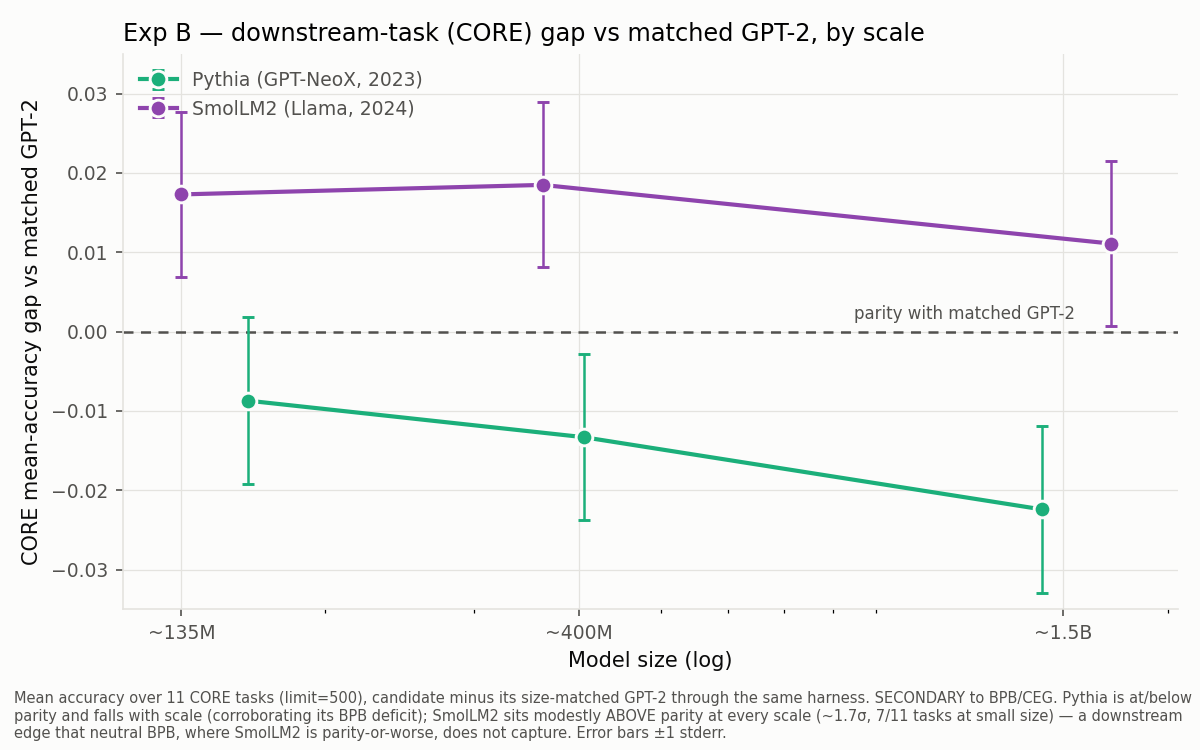
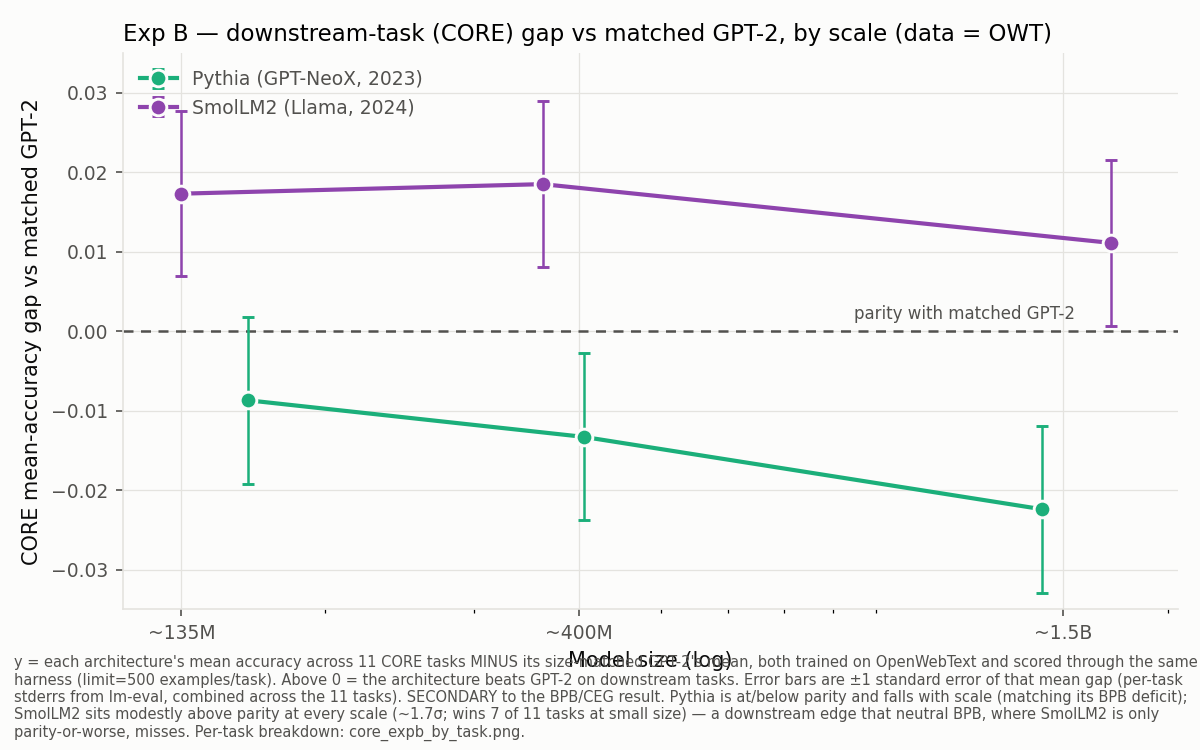
README: rewrite for researchers (no glossary; per-experiment 'what we ran' tables; explain worse-data/same-size-baseline/censored inline; methodology as prose; clearer Exp B results). Add per-task CORE figure + clarified captions (OWT, stderr, mean-over-tasks)

diff --git a/analysis/plots.py b/analysis/plots.py
@@ -324,17 +324,71 @@ def core_expb_delta_vs_scale(root: Path, out_path):
     ax.set_ylim(-0.035, 0.035)
     ax.set_xlabel("Model size (log)")
     ax.set_ylabel("CORE mean-accuracy gap vs matched GPT-2")
-    ax.set_title("Exp B — downstream-task (CORE) gap vs matched GPT-2, by scale",
-                 fontsize=11.5, loc="left")
+    ax.set_title("Exp B — downstream-task (CORE) gap vs matched GPT-2, by scale (data = OWT)",
+                 fontsize=11, loc="left")
     ax.legend(frameon=False, fontsize=9, labelcolor=INK2, loc="upper left")
     fig.text(0.012, 0.012,
-             "Mean accuracy over 11 CORE tasks (limit=500), candidate minus its size-matched "
-             "GPT-2 through the same harness. SECONDARY to BPB/CEG. Pythia is at/below parity "
-             "and falls with scale (corroborating its BPB deficit); SmolLM2 sits modestly ABOVE "
-             "parity at every scale (~1.7σ, 7/11 tasks at small size) — a downstream edge that "
-             "neutral BPB, where SmolLM2 is parity-or-worse, does not capture. Error bars ±1 stderr.",
+             "y = each architecture's mean accuracy across 11 CORE tasks MINUS its size-matched "
+             "GPT-2's mean, both trained on OpenWebText and scored through the same harness "
+             "(limit=500 examples/task). Above 0 = the architecture beats GPT-2 on downstream "
+             "tasks. Error bars are ±1 standard error of that mean gap (per-task stderrs from "
+             "lm-eval, combined across the 11 tasks). SECONDARY to the BPB/CEG result. Pythia is "
+             "at/below parity and falls with scale (matching its BPB deficit); SmolLM2 sits "
+             "modestly above parity at every scale (~1.7σ; wins 7 of 11 tasks at small size) — a "
+             "downstream edge that neutral BPB, where SmolLM2 is only parity-or-worse, misses. "
+             "Per-task breakdown: core_expb_by_task.png.",
              fontsize=7.0, color=INK2, va="bottom", wrap=True)
     fig.tight_layout(rect=(0, 0.075, 1, 1))
+    fig.savefig(out_path, facecolor=SURFACE); plt.close(fig)
+
+
+def core_expb_by_task(root: Path, out_path):
+    """Exp B CORE broken down BY TASK: one panel per task, showing each lineage's
+    accuracy gap vs its matched GPT-2 (candidate - GPT-2) across model size. Companion
+    to the aggregate core_expb_delta figure. Data = OWT (Exp B is OWT-only); limit=500;
+    ±1 stderr per point (stderr of the difference = hypot of the two arms' task stderrs).
+    Reads results/core_expb_summary.json (per_task deltas)."""
+    S = json.loads((root / "core_expb_summary.json").read_text())["pairs"]
+    PARAMS = {"pythia-160M": 162, "pythia-410M": 405, "pythia-1.4B": 1415,
+              "smollm2-135M": 135, "smollm2-360M": 362, "smollm2-1.7B": 1711}
+    LIN = {"pythia": ("Pythia", "#1baf7a"), "smollm2": ("SmolLM2", "#8e44ad")}
+    tasks = ["arc_easy", "arc_challenge", "openbookqa", "hellaswag", "commonsense_qa",
+             "boolq", "copa", "piqa", "winogrande", "xwinograd_en", "lambada_openai"]
+    ncol = 4
+    nrow = (len(tasks) + ncol - 1) // ncol
+    fig, axes = plt.subplots(nrow, ncol, figsize=(12.5, 2.5 * nrow), dpi=150, sharey=True)
+    axf = axes.ravel()
+    for i, task in enumerate(tasks):
+        ax = axf[i]
+        ax.axhline(0.0, color=INK2, lw=1, ls=(0, (4, 3)), zorder=1)
+        for lname, (label, col) in LIN.items():
+            pts = sorted(((PARAMS[k], v["per_task"].get(task, {})) for k, v in S.items()
+                          if k.startswith(lname)))
+            xs = [p for p, d in pts if d]
+            ys = [d["delta"] for p, d in pts if d]
+            ax.plot(xs, ys, color=col, marker="o", ms=5, lw=1.6, label=label, zorder=3,
+                    markeredgecolor=SURFACE, markeredgewidth=0.8)
+        ax.set_xscale("log"); ax.set_xticks([135, 400, 1500])
+        ax.set_xticklabels(["135M", "400M", "1.5B"], fontsize=7.5)
+        ax.xaxis.set_minor_formatter(matplotlib.ticker.NullFormatter())
+        ax.set_ylim(-0.10, 0.10)
+        ax.set_title(task, fontsize=9.5, loc="left")
+        _style(ax)
+    for j in range(len(tasks), len(axf)):
+        axf[j].axis("off")
+    axf[0].legend(frameon=False, fontsize=8, labelcolor=INK2, loc="upper right")
+    for r in range(nrow):
+        axes[r, 0].set_ylabel("Δ acc vs GPT-2", fontsize=8.5)
+    fig.suptitle("Exp B — CORE accuracy gap vs matched GPT-2, per task (data = OWT)",
+                 fontsize=12.5, x=0.012, ha="left", color=INK)
+    fig.text(0.012, 0.008,
+             "Each panel: candidate accuracy minus its size-matched GPT-2 on that task "
+             "(>0 = candidate better), vs model size, per lineage. limit=500, so single "
+             "tasks are noisy — read the consistency across tasks, not any one panel. "
+             "SmolLM2 (purple) is positive on most tasks at most sizes; Pythia (green) "
+             "scatters around/below zero. Aggregate + significance in core_expb_delta.png.",
+             fontsize=7.2, color=INK2, va="bottom", wrap=True)
+    fig.tight_layout(rect=(0, 0.04, 1, 0.95))
     fig.savefig(out_path, facecolor=SURFACE); plt.close(fig)
 
 
@@ -569,7 +623,7 @@ if __name__ == "__main__":
     ap.add_argument("kind", choices=["curves", "cross_scale", "sensitivity",
                                      "all_configs", "multipliers",
                                      "core_vs_scale", "core_arms_by_task",
-                                     "core_expb"])
+                                     "core_expb", "core_expb_by_task"])
     ap.add_argument("--size-label", default="")
     ap.add_argument("--out", required=True)
     ap.add_argument("--threshold", type=float)
@@ -593,6 +647,8 @@ if __name__ == "__main__":
         core_arms_by_task(Path("results"), a.out)
     elif a.kind == "core_expb":
         core_expb_delta_vs_scale(Path("results"), a.out)
+    elif a.kind == "core_expb_by_task":
+        core_expb_by_task(Path("results"), a.out)
     else:
         threshold_sensitivity(a.csv, a.size_label, a.out)
     print(f"wrote {a.out}")

diff --git a/analysis/make_report.py b/analysis/make_report.py
@@ -250,6 +250,10 @@ def _expb_core_section(root):
             "is noisy — not a compute-efficiency claim (on BPB/CEG neither lineage beats GPT-2).", ""]
     if (root / "core_expb_delta.png").exists():
         out += ["![Exp B CORE gap vs matched GPT-2, by scale](core_expb_delta.png)", ""]
+    if (root / "core_expb_by_task.png").exists():
+        out += ["Per-task breakdown (each task is noisy at limit=500 — read the "
+                "consistency across tasks, not any single panel):", "",
+                "![Exp B CORE gap per task](core_expb_by_task.png)", ""]
     return out
 
 

diff --git a/README.md b/README.md
@@ -6,55 +6,79 @@ at once: the **data** got better (cleaner, better-filtered web corpora) and the
 recipes). This project asks how much of the progress each one is responsible for.
 
 The trick is to put both on a common currency: **compute**. Instead of asking "how
-much better is the loss," we ask "**how much less compute do you need to reach the
-same quality?**" Concretely, we fix a quality bar — a target score on a held-out,
+much better is the loss," we ask "how much *less compute* do you need to reach the same
+quality?" Concretely, we fix a quality bar — a target score on a held-out,
 decontaminated Wikipedia set — train each configuration from scratch, and record the
 GPU-hours it takes to reach that bar. Better data or a better algorithm shows up as
-*needing fewer GPU-hours*. We call that ratio a **compute-equivalent gain (CEG)**: a
-2× CEG means you reach the same quality in half the compute. Because the quality bar
-is measured in **bits-per-byte** (BPB) on identical raw text, the numbers are
-comparable across different tokenizers, architectures, and model sizes.
+needing fewer GPU-hours. We call that ratio a **compute-equivalent gain (CEG)**: a 2×
+CEG means you reach the same quality in half the compute. The quality bar is measured
+in bits-per-byte on the same raw text for every run, so the comparison is fair across
+different tokenizers, architectures, and model sizes.
 
-A few terms used throughout:
-- **arm** — one training configuration (a specific data + algorithm combination).
-- **threshold** — the fixed quality bar (a BPB value); an arm's CEG is how quickly it
-  reaches that bar relative to a baseline.
-- **censored** — an arm that never reaches the threshold, so its CEG is only bounded
-  (≤1× if it can't even match the baseline). We report these honestly rather than
-  extrapolating a crossing that didn't happen.
+Two things to know about how to read the numbers. First, every comparison is against a
+**GPT-2 baseline of the same parameter count** — when we say an architecture is
+compared to "a matched GPT-2," we mean a GPT-2 with the same dimensions/parameters,
+trained through the same pipeline, so the only thing that differs is the thing being
+tested. Second, some configurations **never reach the quality bar** within the training
+budget; we call those *censored* and report them as a bound (e.g. "≤1×, no measurable
+gain") rather than inventing a crossing that didn't happen.
 
 ## The three experiments
 
-**1. Core 2×2 study — the foundation.** Cross the two axes directly: old vs. new
-**data**, old vs. new **algorithm**, giving four arms. Training all four and comparing
-their compute-to-threshold lets us split the total progress into a *data multiplier*
-and an *algorithm multiplier* at each model size (a Shapley decomposition — it just
-averages the two possible orderings of "add better data first" vs. "add the better
-algorithm first"). We run this at GPT-2 sizes along two separate cross-scale curves,
-because the "new algorithm" isn't a single fixed thing across scales: a current
-modded-nanoGPT speedrun (124M, 355M) and the 2024 "ScaleUp" lineage (124M, 1.5B).
+### 1. Core 2×2 study — the foundation
 
-|  | Old data (OpenWebText) | New data (DCLM/Nemotron-CC) |
+Cross the two axes directly: old vs. new **data**, old vs. new **algorithm**, giving
+four training runs ("arms"). Comparing their compute-to-quality lets us split the total
+progress into a *data multiplier* and an *algorithm multiplier* at each model size (a
+Shapley decomposition — it averages the two orderings of "add the better data first"
+vs. "add the better algorithm first"). We run this at several GPT-2 sizes, along two
+separate curves, because the "new algorithm" isn't one fixed thing across scales: a
+current modded-nanoGPT speedrun (small sizes) and the older 2024 "ScaleUp" recipe
+(which has a documented large-scale configuration).
+
+The four arms, and the sizes each curve was run at:
+
+|  | Old data (OpenWebText) | New data (DCLM) | Sizes run |
+|---|---|---|---|
+| **Old algorithm** (GPT-2) | A0D0 | A0D1 | 124M, 355M, 1.5B |
+| **New algorithm — current speedrun** | A1D0 | A1D1 | 124M, 355M |
+| **New algorithm — 2024 ScaleUp** | A1D0 | A1D1 | 124M, 1.5B |
+
+### 2. Exp A — does "newer data" mean "better data"?
+
+Hold the algorithm fixed and walk the data corpus forward in time, all at 124M. Here
+"worse data" has a concrete meaning: a model of the same size, trained on that corpus
+for the same compute, reaches the quality bar more slowly — or not at all. The finding
+is that data quality is *not* monotonic in release year.
+
+| Data corpus | Release year | Runs (each = one 124M model) |
 |---|---|---|
-| **Old algorithm** (GPT-2 repro) | A0D0 | A0D1 |
-| **New algorithm** (modded-nanoGPT) | A1D0 | A1D1 |
+| OpenWebText | 2019 | old-algo (the baseline) + current-arch |
+| C4 | 2020 | old-algo + current-arch |
+| RefinedWeb | 2023 | old-algo + current-arch |
+| DCLM | 2024 | old-algo + current-arch |
 
-**2. Exp A — does "newer data" mean "better data"?** Hold the algorithm fixed and
-walk the data corpus forward in time: OpenWebText (2019), C4 (2020), RefinedWeb
-(2023), DCLM (2024), all at 124M. The answer turns out to be no — data quality is
-*not* monotonic in release year (C4 in 2020 is actually worse than 2019 OpenWebText).
+### 3. Exp B — does the modern architecture advantage generalize?
 
-**3. Exp B — does the modern architecture advantage generalize?** The core study found
-a large algorithm advantage for the current speedrun at small scale. Is that a real
-architectural improvement, or just tricks tuned for small-scale speedrun benchmarks?
-To find out, we train published open-model lineages — Pythia (2023) and SmolLM2 (2024)
-— from scratch against a size-matched GPT-2, on fixed data, from 135M to 1.7B. The
-result is a clean "no": none of them beat a well-tuned GPT-2 at any scale. (This
-experiment currently varies only architecture; extending it across the data corpora —
-to get a data multiplier per architecture — is the planned next step.)
+The core study found a large algorithm advantage for the current speedrun at small
+scale. Is that a genuine architectural improvement, or tricks tuned for small-scale
+speedrun benchmarks? To find out, we take two *published* open-model lineages — Pythia
+(2023) and SmolLM2 (2024) — and train them from scratch against a same-size GPT-2, on
+fixed data (OpenWebText), across a range of sizes. The result is a clean "no": neither
+beats a well-tuned GPT-2 at any scale.
 
-Headline numbers for all three are in "Results so far" below; the full write-up,
-with figures and every caveat, is in `report.md`.
+| Architecture | Sizes run | Baseline (same-size GPT-2) |
+|---|---|---|
+| GPT-2 (matched baseline) | 135M, 160M, 360M, 410M, 1.4B, 1.7B | — (it is the baseline) |
+| Pythia (GPT-NeoX, 2023) | 160M, 410M, 1.4B | 160M / 410M / 1.4B GPT-2 |
+| SmolLM2 (Llama, 2024) | 135M, 360M, 1.7B | 135M / 360M / 1.7B GPT-2 |
+
+This experiment varies only the architecture (data is held fixed at OpenWebText), so it
+produces an *algorithm* comparison but not yet a data multiplier for these new
+architectures — extending it across the four corpora is the planned next step.
+
+Headline numbers for all three are in "Results so far" below; the full write-up, with
+figures and every caveat, is in `report.md`.
 
 ## Status: what's measured, and what's still open
 
@@ -122,17 +146,30 @@ data multiplier ~stable (~3×). Disclosed gaps: current-arch 1.5B, ScaleUp 355M.
 Data-quality is NON-monotonic in release year — C4 (2020) is *worse* than 2019 OWT
 (censored under both algorithms). Corrected OWT×DCLM 2×2: data 2.39×, algo 16.1×, total 38.5×.
 
-**Exp B — architecture landscape** (algorithm-CEG vs a size-matched GPT-2, data fixed = OWT;
-Δ = arch neutral BPB − matched GPT-2, >0 = worse; all arms censored ≤1×):
+**Exp B — architecture landscape.** Every architecture is compared to a same-size
+GPT-2. None of them reach the GPT-2 quality bar faster (all are censored, i.e. algorithm
+CEG ≤ 1×), so the informative number is how far *short* of the bar each one lands. The
+table shows the gap in bits-per-byte between the architecture and its matched GPT-2 at
+convergence — 0 means a tie, positive means the architecture is worse:
 
-| Lineage | 135–160M | 360–410M | 1.4–1.7B |
+| Architecture | ~135–160M | ~360–410M | ~1.4–1.7B |
 |---|---|---|---|
-| Pythia (GPT-NeoX, 2023) | +0.082 | +0.020 (2-seed) | +0.030 |
-| SmolLM2 (Llama, 2024) | +0.009 (parity within noise) | +0.054 *(div)* | +0.120 *(div)* |
+| Pythia (GPT-NeoX, 2023) | +0.082 (worse) | +0.020 (2-seed) | +0.030 (worse) |
+| SmolLM2 (Llama, 2024) | +0.009 (tie, within noise) | +0.054 † | +0.120 † |
 
-**No published Transformer lineage beats a matched, well-trained GPT-2 anywhere 135M–1.7B.**
-Best case = SmolLM2-135M parity. *(div)* = divergence-confounded (SmolLM2 overfits OWT at
-larger sizes, even at its documented LR). No data multiplier yet — see "Planned next".
+**No published Transformer lineage beats a matched, well-trained GPT-2 anywhere from
+135M to 1.7B** — the best any of them manages is a tie (SmolLM2 at 135M). † SmolLM2's
+larger models overfit OpenWebText even at their documented learning rate, which inflates
+those two gaps (the deficit is real, but the exact size is confounded). This is the
+central Exp B result and the reason we conclude the current speedrun's small-scale
+advantage does *not* come from a generally-better architecture.
+
+Downstream tasks (CORE — secondary, `results/core_expb_delta.png` and
+`core_expb_by_task.png`) add a wrinkle worth noting: on the task suite, Pythia stays
+at-or-below its matched GPT-2 (consistent with the gap above), but **SmolLM2 lands
+slightly *above* its matched GPT-2 at every size** despite the bits-per-byte tie/deficit
+— a small architectural edge on downstream accuracy that the compute-efficiency metric
+doesn't capture. It's a modest, noisy signal (limit=500), not a compute-efficiency claim.
 
 ## Where the artifacts live (checkpoints & data)
 
@@ -146,7 +183,7 @@ Hugging Face (model checkpoints); a local backup mirror at
 | **Exp B checkpoints** (14: 6 GPT-2 denominators + 6 candidates + 2 replicate seeds) | public HF `MIRIBerkeley/data-vs-algorithms-ceg-expB` (35.7 GB) | local (`b1_cand/checkpoints/`, 36 GB); metrics.csv in git (`results/b1_metrics/`) |
 | **Exp B matched GPT-2 baselines** (6, train_old) | local (`b1_checkpoints/`, 16 GB) | thresholds in git (`results/b1_baseline_thresholds.json`) |
 | **Exp A era-ladder arms** | run metrics local (`prov/`, `run_metrics/`) + git results JSONs | final checkpoints on the pod volume only (weights not needed for the CEG result) |
-| **Tokenized datasets** | pod `/workspace/datasets/` (all 4 corpora × gpt2/nanogpt; OWT × neox/smollm2) | `owt_neox`/`owt_smollm2` mirrored local (`b1_datasets/`, 34 GB); `wiki_eval_union` in `eval_sets.tgz`. **C4/RW/DCLM in neox/smollm2 tokenizers NOT yet built** (the data-ladder prereq). |
+| **Tokenized datasets** | pod `/workspace/datasets/` (all 4 corpora × gpt2/nanogpt; OWT × neox/smollm2) | `owt_neox`/`owt_smollm2` mirrored local (`b1_datasets/`, 34 GB); `wiki_eval_union` in `eval_sets.tgz`. C4/RefinedWeb/DCLM in the neox/smollm2 tokenizers (the data-ladder prereq) are being built now. |
 | **Metrics, results, figures, report, configs** | git (this repo) | — |
 
 ## Layout
@@ -180,32 +217,40 @@ Hugging Face (model checkpoints); a local backup mirror at
   ScaleUp-arch) kept separate, plus the Exp A (era-ladder) and Exp B
   (architecture landscape) sections, with all disclosed gaps
 
-## Methodology invariants (do not "improve")
+## How we measure (methodology)
 
-1. **BPB everywhere**, never cross-arm per-token CE (tokenizers differ in kind).
-2. Reference threshold = BPB on a **fixed decontaminated Wikipedia slice**,
-   identical raw text across all runs; per-dataset val BPB is logged but
-   labeled same-distribution-only. (Canonical definition = mean neutral BPB
-   over A0D0's final-10%-by-tokens checkpoints, `analysis/threshold.py::final_tail_threshold`.)
-3. CORE is secondary, gated by an above-chance validity check at small sizes.
-4. Compute = **timed GPU-hours** excluding warmup/compile and eval time; no
-   cross-arm raw-FLOP comparisons.
-5. Hyperparameters are fixed per (algorithm, size) row — never re-tuned per
-   data arm.
-6. Log-spaced checkpoints + log-compute interpolation for threshold crossing.
-7. Shapley decomposition in log-compute space, reported as multipliers.
-8. Tokenizer belongs to "algorithm": 4 tokenized corpus variants total.
-9. ~~A1D0 = exactly 2 epochs of OpenWebText, reshuffled between epochs, called
-   out in the writeup as that cell's extra confound.~~
-   **CORRECTED (dated note, 2026-07):** the original design fixed token budgets
-   across arms (old-algo 9B, new-algo 18B), which forced A1D0 to repeat OWT for
-   exactly 2 epochs. This was **abandoned** after the modded recipe collapsed
-   under the ~50× schedule stretch a fixed 18B budget implied at small sizes.
-   Final design: each A1 (modded) arm trains at **2× its size's upstream-native
-   budget, single-pass** (well under one epoch of its ~9B+ corpus) — so there is
-   **no epoch-repetition confound in any cell**. Recorded here as an explicit
-   correction (not a silent rewrite), same as every other correction in this
-   project; see `report.md` methodology notes.
+A handful of choices make the compute comparisons fair; they are fixed for every run so
+that a difference in the result reflects a difference in data or architecture, not in
+how we measured it.
 
-Session procedures, pipeline smoke test, and the cost ledger live in
-`RUNBOOK.md`; the final write-up is `report.md`.
+- **Quality is bits-per-byte, not per-token loss.** Different tokenizers split text
+  differently, so per-token cross-entropy isn't comparable across them; bits-per-byte
+  is. We never compare per-token loss across architectures.
+- **One fixed quality bar for everything.** The bar is bits-per-byte on a fixed,
+  decontaminated slice of Wikipedia — the same raw text for every run, at every size.
+  The exact bar at each size is the fully-trained GPT-2 baseline's score (averaged over
+  the final 10% of its training; `analysis/threshold.py`).
+- **Compute is timed GPU-hours**, excluding warmup/compile and evaluation time. We do
+  not compare raw FLOPs across architectures (their numerical precision differs, so
+  FLOPs aren't comparable).
+- **Hyperparameters are fixed per (architecture, size).** They are never re-tuned
+  between the data conditions, so the data comparison isn't contaminated by tuning.
+- **The tokenizer counts as part of the "algorithm."** Each corpus is tokenized once
+  per tokenizer; switching tokenizer is an algorithm change, not a data change.
+- **Downstream tasks (CORE) are a secondary check**, not the headline. They are noisy
+  at small scale, so we gate each task on clearing chance by a margin before using it,
+  and we never make a compute-efficiency claim from them.
+- **Crossings are interpolated in log-compute** between checkpoints, never snapped to
+  the nearest one; the data/algorithm split is a Shapley decomposition in log-compute
+  space, reported as multipliers.
+
+One design point changed mid-project and is worth stating plainly. The original plan
+fixed the token budget across arms (old-algorithm 9B, new-algorithm 18B), which forced
+the new-algorithm/old-data cell to train two epochs on OpenWebText. That was abandoned
+after the modded recipe broke down under the very long schedule a fixed 18B budget
+implied at small sizes. In the final design each modded arm trains at twice its size's
+native budget in a single pass (well under one epoch), so no cell repeats data. (Noted
+here as an explicit correction rather than a silent edit; see `report.md`.)
+
+Session procedures, the pipeline smoke test, and the cost ledger are in `RUNBOOK.md`;
+the full write-up is `report.md`.
